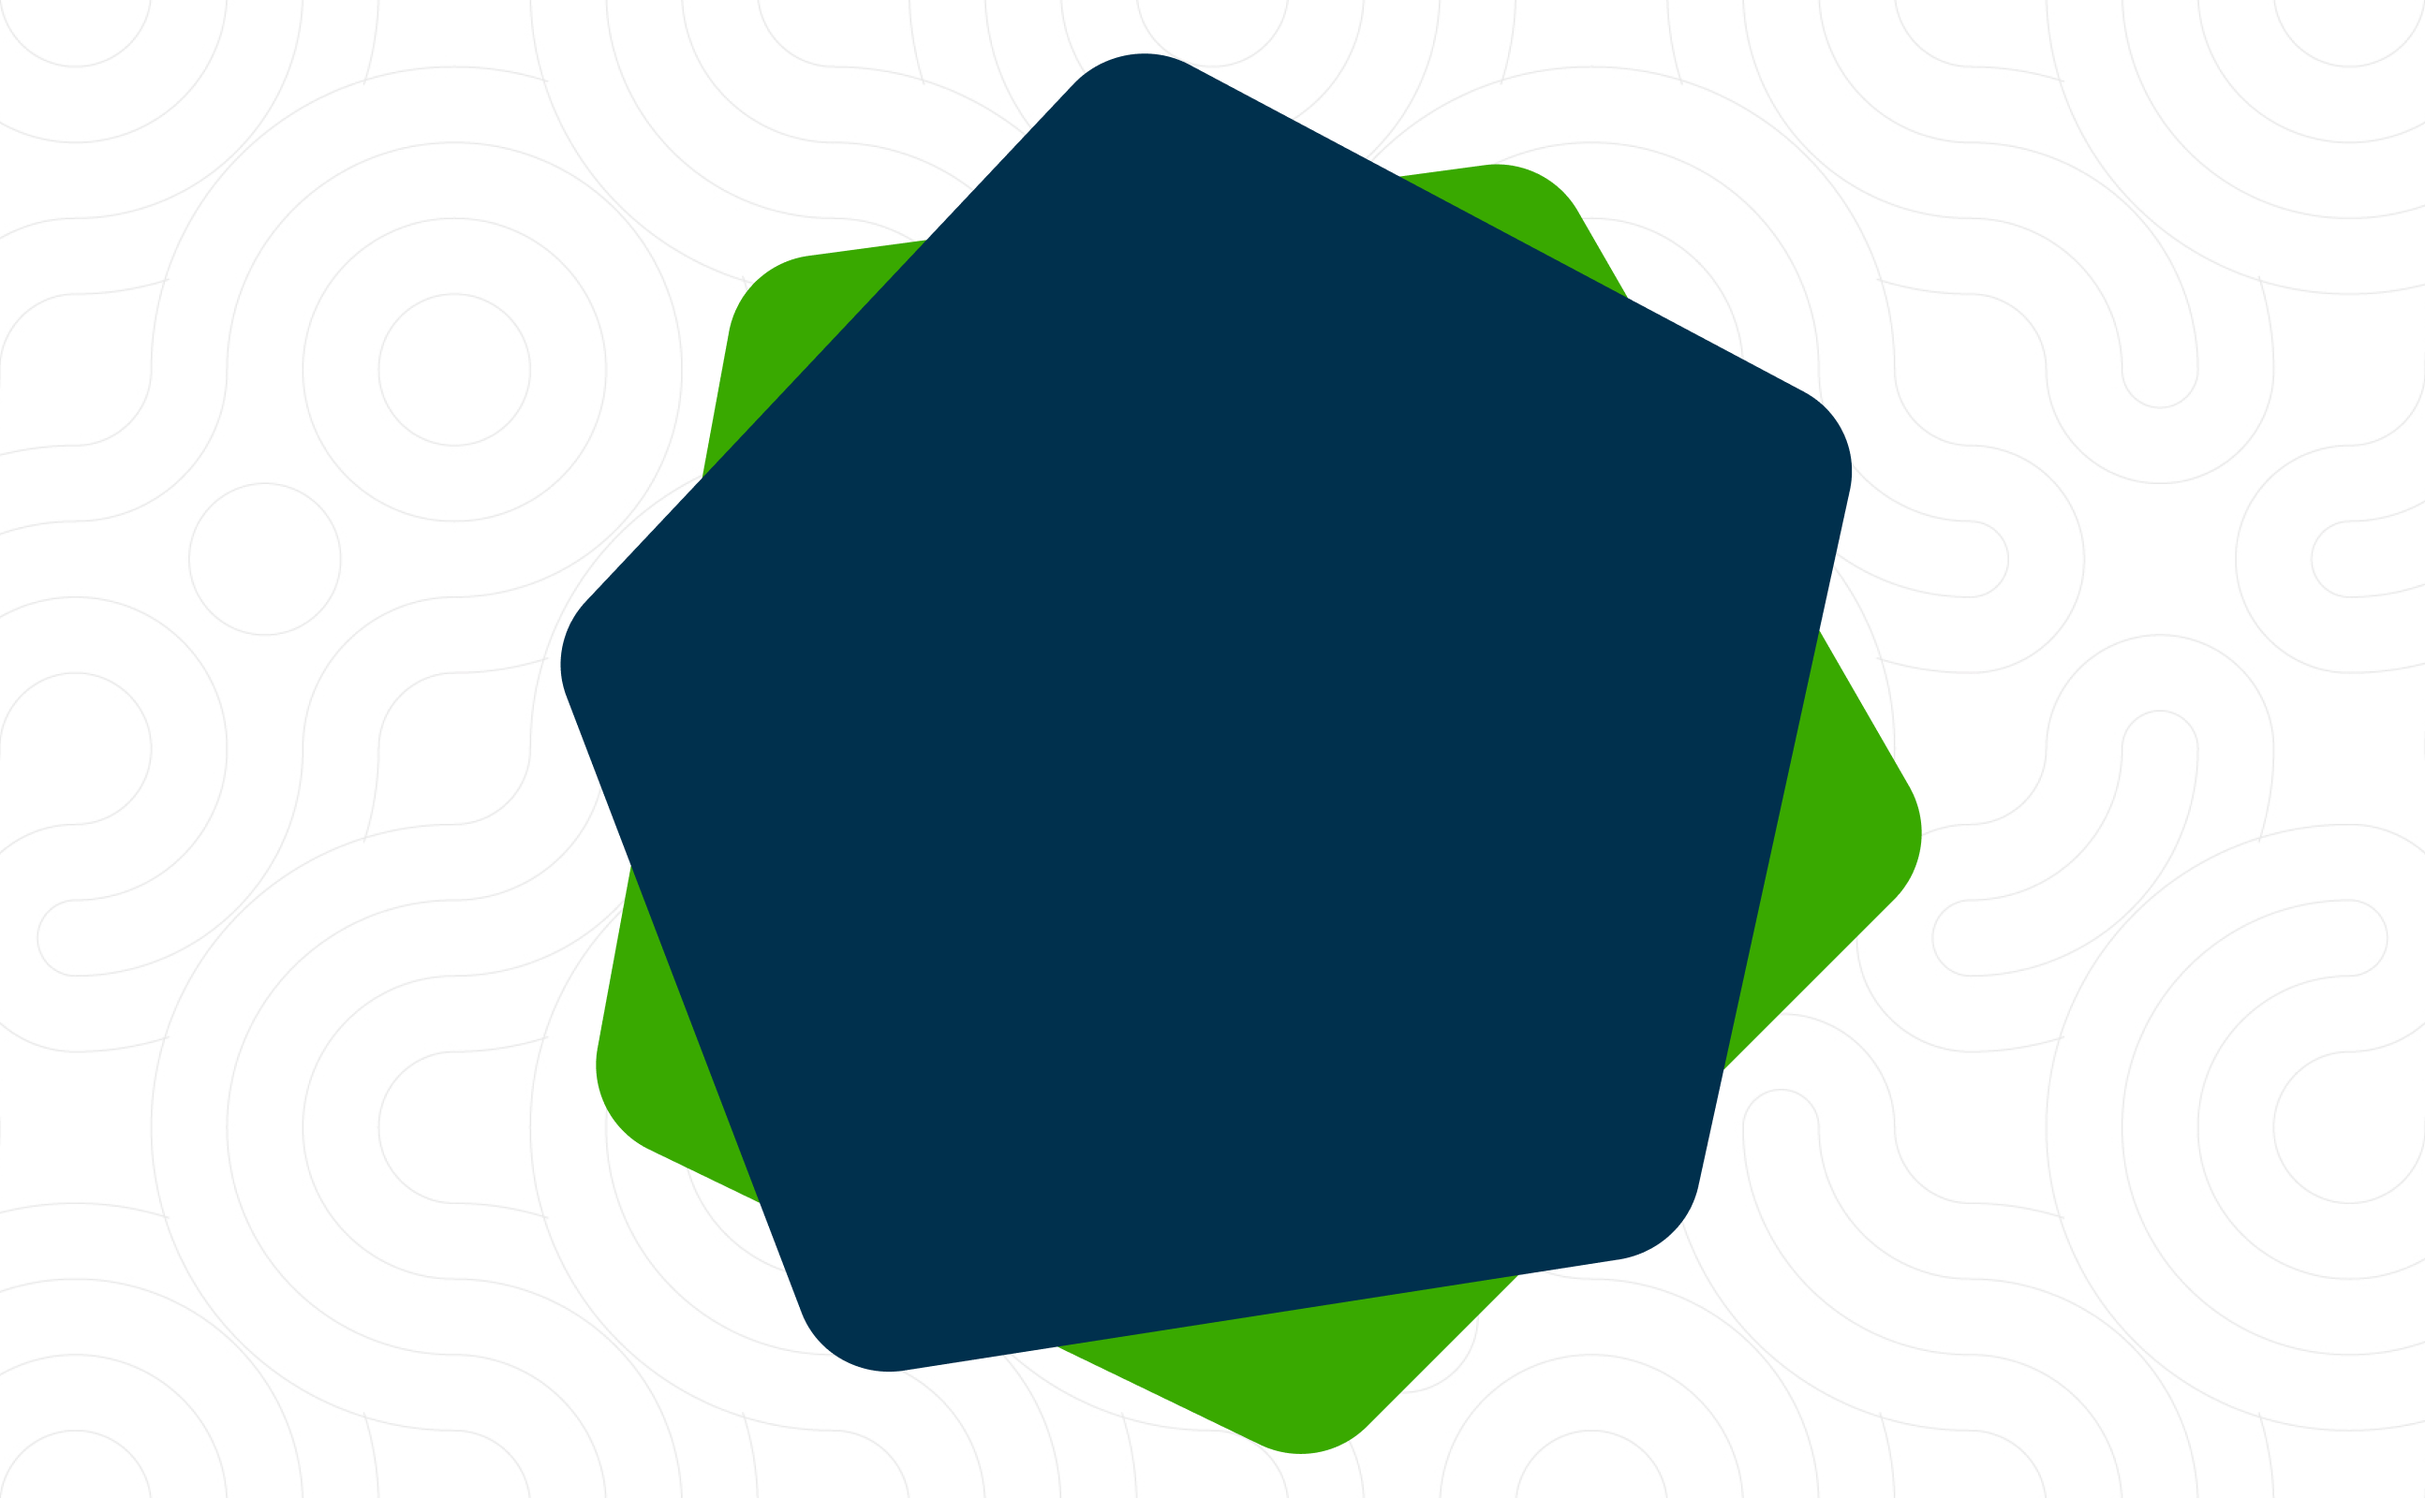
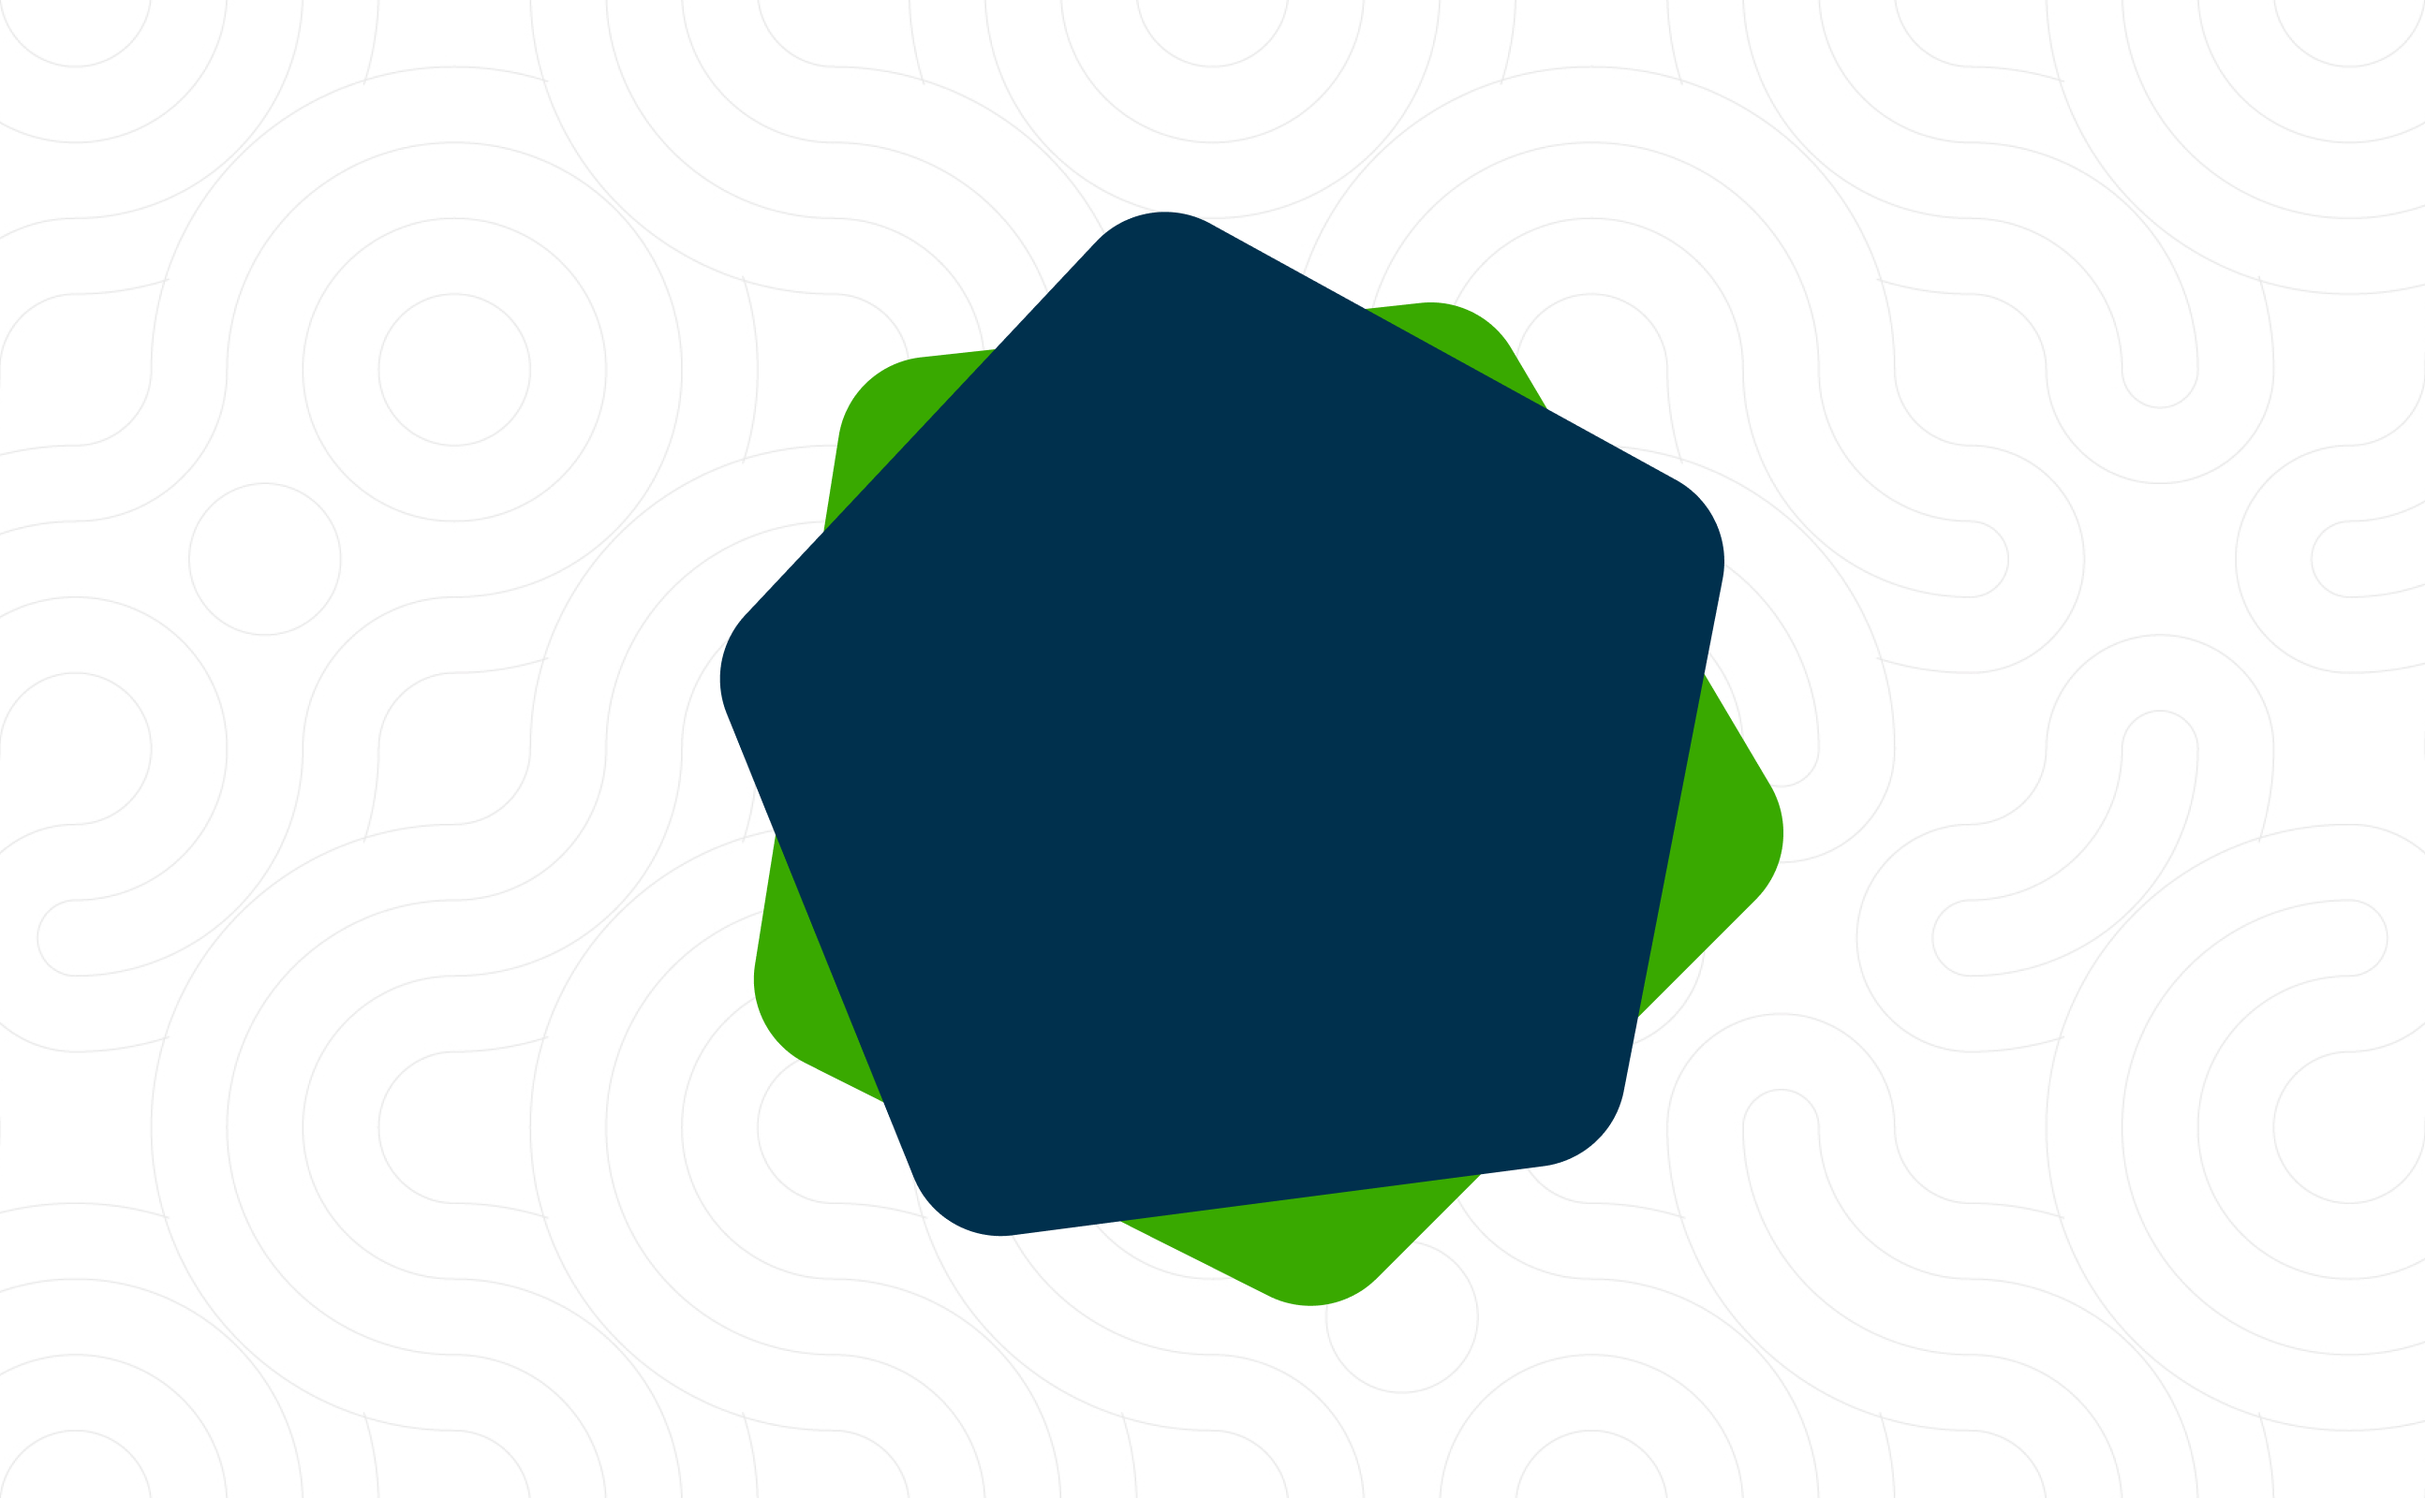
Se añade modal de advertencias, quedando pendiente el arreglar los mensajes que acompañan cada situación

Changed region(s): [[0.2163, 0.0312, 0.8034, 0.9688]]

diff --git a/Src/index.html b/Src/index.html
@@ -17,11 +17,12 @@
 <body>
 
     <!-- Cuadro de inicio de sesion -->
-    <!--
-    <div class="container mt-1 d-flex justify-content-center" id="Login">
-        <div class="card p-4">
+    <div class="container mt-0.2
+    
+    d-flex justify-content-center">
+        <div class="card p-4" id="containerLogin">
             <h1 class="card-title" style="color: #00304D;"><strong>¡Bienvenido!, inicia sesión para usar <span
-                    style="color: #39A900;">SeniCheck</span></strong>
+                        style="color: #39A900;">SeniCheck</span></strong>
             </h1>
             <form>
                 <div class="form-floating mb-3">
@@ -35,47 +36,40 @@
                     <label for="floatingSelectGrid"><strong>Selecciona tu tipo de rol</strong></label>
                 </div>
                 <div class="form-floating mb-3">
-                    <input type="email" class="form-control" id="loginInput">
+                    <input type="email" class="form-control" id="emailInput">
                     <label for="floatingInput"><strong>Correo electrónico</strong></label>
                 </div>
                 <div class="form-floating mb-3">
-                    <input type="password" class="form-control" id="loginInput">
+                    <input type="password" class="form-control" id="passwordInput">
                     <label for="floatingPassword"><strong>Contraseña</strong></label>
-                </div> 
-                <button type="submit" class="btn btn-primary" id="btnLogin"><strong>Iniciar Sesión</strong></button>
+                </div>
+                <!-- Botón tipo submit que abrirá el modal -->
+                <button type="submit" class="btn btn-primary" id="btnLogin" data-bs-toggle="modal"
+                    data-bs-target="#noneDataModal">
+                    <strong>Iniciar Sesión</strong>
+                </button>
+
+                <!-- Modal  de falta de datos ingresados -->
+                <div class="modal fade" id="noneDataModal" data-bs-backdrop="static" data-bs-keyboard="false"
+                    tabindex="-1" aria-labelledby="staticBackdropLabel" aria-hidden="true">
+                    <div class="modal-dialog">
+                        <div class="modal-content">
+                            <div class="modal-body text-center">
+                                <img src="../Resources/Img/errorIcon.png" alt="" class="mb-3">
+                                <h1><strong style="color: #00304D;">ERROR</strong></h1>
+                                <h1 id="modalMessageError"><strong style="color: #39A900;">Por favor, rellena todos los campos.</strong></h1>
+                            </div>
+                            <div class="modal-footer justify-content-center">
+                                <button type="button" class="btn btn-secondary" data-bs-dismiss="modal"
+                                    id="btnCloseModal"><strong>Cerrar</strong></button>
+                            </div>
+                        </div>
+                    </div>
+                </div>
+
             </form>
         </div>
     </div>
-    -->
-
-    <!-- Cuadro de inicio de sesion -->
-    <div class="container mt-1 d-flex justify-content-center" id="Login">
-        <div class="card p-4">
-            <h1 class="card-title" style="color: #00304D;"><strong>¡Bienvenido!, inicia sesión para usar <span
-                    style="color: #39A900;">SeniCheck</span></strong>
-            </h1>
-            <form>
-                <div class="form-floating mb-3">
-                    <select class="form-select" id="selectRol">
-                        <option disabled selected hidden>
-                        </option>
-                        <option value="1">Bienestar al aprendiz</option>
-                        <option value="2">Coordinador</option>
-                        <option value="3">Instructor</option>
-                    </select>
-                    <label for="floatingSelectGrid"><strong>Selecciona tu tipo de rol</strong></label>
-                </div>
-                <div class="form-floating mb-3">
-                    <input type="email" class="form-control" id="loginInput">
-                    <label for="floatingInput"><strong>Correo electrónico</strong></label>
-                </div>
-                <div class="form-floating mb-3">
-                    <input type="password" class="form-control" id="loginInput">
-                    <label for="floatingPassword"><strong>Contraseña</strong></label>
-                </div>
-                <button type="submit" class="btn btn-primary" id="btnLogin"><strong>Iniciar Sesión</strong></button>
-            </form>
-        </div>
 
     <script src="app.js"></script>
     <script src="Model/Model.js"></script>

diff --git a/Src/App.js b/Src/App.js
@@ -1,67 +1,22 @@
-// // Selecciona elementos del DOM
-// const inputTarea = document.getElementById('nuevaTarea');
-// const botonAgregar = document.getElementById('agregarTarea');
-// const listaTareas = document.getElementById('listaTareas');
+document.getElementById('btnLogin').addEventListener('click', function(event) {
+    event.preventDefault(); //Esto hace que el formulario no recargue la página
 
-// // Función para agregar tarea
-// function agregarTarea() {
-//     const tareaTexto = inputTarea.value;
+    const selectRol = document.getElementById('selectRol').value;
+    const emailInput = document.getElementById('emailInput').value;
+    const passwordInput = document.getElementById('passwordInput').value;
 
-//     // Validar que no esté vacío
-//     if (tareaTexto.trim() === '') {
-//         alert('Por favor, escribe una tarea.');
-//         return;
-//     }
+    let modalMessageError = '';
 
-//     // Crear un nuevo elemento de lista
-//     const li = document.createElement('li');
-//     li.className = 'list-group-item d-flex justify-content-between align-items-center';
-//     li.textContent = tareaTexto;
+    if (!selectRol && !emailInput && !passwordInput){
 
-//     // Botón para eliminar tarea
-//     const botonEliminar = document.createElement('button');
-//     botonEliminar.className = 'btn btn-danger btn-sm';
-//     botonEliminar.textContent = 'Eliminar';
-//     botonEliminar.onclick = function() {
-//         listaTareas.removeChild(li);
-//     };
-
-//     // Agregar el botón a la tarea
-//     li.appendChild(botonEliminar);
-//     listaTareas.appendChild(li);
-
-//     // Limpiar el campo de entrada
-//     inputTarea.value = '';
-// }
-
-// // Evento para agregar tarea al hacer clic
-// botonAgregar.addEventListener('click', agregarTarea);
-
-// // Evento para agregar tarea al presionar Enter
-// inputTarea.addEventListener('keypress', function(event) {
-//     if (event.key === 'Enter') {
-//         agregarTarea();
-//     }
-// 
-
-// // Selecciona elementos del DOM
-const menuSeleccion = document.getElementById('menuSeleccion');
-const inputCorreo = document.getElementById('correoElectronico');
-const inputContrasena = document.getElementById('contrasena');
-const botonIniciarSesion = document.getElementById('iniciarSesion');
-
-// Validar que no esté vacío
-if (tareaTexto.trim() === '') {
-    alert('Por favor, escribe una tarea.');
-    return;
-}
-
-// Evento para agregar tarea al hacer clic
-botonIniciarSesion.addEventListener('click', agregarTarea);
-
-// Evento para agregar tarea al presionar Enter
-inputTarea.addEventListener('keypress', function (event) {
-    if (event.key === 'Enter') {
-        agregarTarea();
+    } else if (!selectRol){
+        modalMessageError = 'Por favor, seleccione su tipo rol';
+    } else if(!emailInput){
+        modalMessageError = 'Por favor, ingrese su correo electrónico';
+    } else if(!passwordInputInput){
+        modalMessageError = 'Por favor, ingrese su contraseña';
     }
+
+    document.getElementById('modalMessageError').innerHTML = `<strong style="color: #39A900;">${modalMessage}</strong>`;
 });
+

diff --git a/Css/Styles.css b/Css/Styles.css
@@ -1,6 +1,6 @@
 body {
     height: 100vh;
-    background-image: url('../Resources/Img/BackgroundsNormal.png');
+    background-image: url('../Resources/Img/Backgrounds.png');
     background-size: cover;
     background-repeat: no-repeat;
     background-position: center;
@@ -11,12 +11,7 @@ h1 {
     font-family: "Work Sans", sans-serif;
 }
 
-.list-group-item {
-    display: flex;
-    justify-content: space-between;
-    align-items: center;
-}
-
+/* Estilos de la página de login*/
 .container {
     display: flex;
     justify-content: center;
@@ -24,22 +19,50 @@ h1 {
     height: 100vh;
 }
 
+.list-group-item {
+    display: flex;
+    justify-content: space-between;
+    align-items: center;
+}
+
 .card {
     width: 400px;
-    border-radius: 10%;
     text-align: center;
     box-shadow: 0 4px 8px rgba(0, 0, 0, 0.1);
 }
 
-#loginInput, #selectRol{
-    font-family: "Work Sans", sans-serif;
+#containerLogin{
+    border-radius: 20px;
+}
+
+#emailInput, #passwordInput, #selectRol{
     margin: 1vh 0;
+    border-radius: 20px;
+    font-family: "Work Sans", sans-serif;
 }
 
 #btnLogin {
+    width: 80%;
     font-family: "Work Sans", sans-serif;
     font-size: 1.5rem;
-    width: 60vh;
     background-color: #00304D;
     border-color: #ff583300;
+    border-radius: 20px;
+}
+
+.list-group-item {
+    display: flex;
+    justify-content: space-between;
+    align-items: center;
+}
+
+/* Estilos del modal de login */
+
+#btnCloseModal {
+    width: 80%;
+    font-family: "Work Sans", sans-serif;
+    font-size: 1.5rem;
+    background-color: #00304D;
+    border-color: #ff583300;
+    border-radius: 20px;
 }
